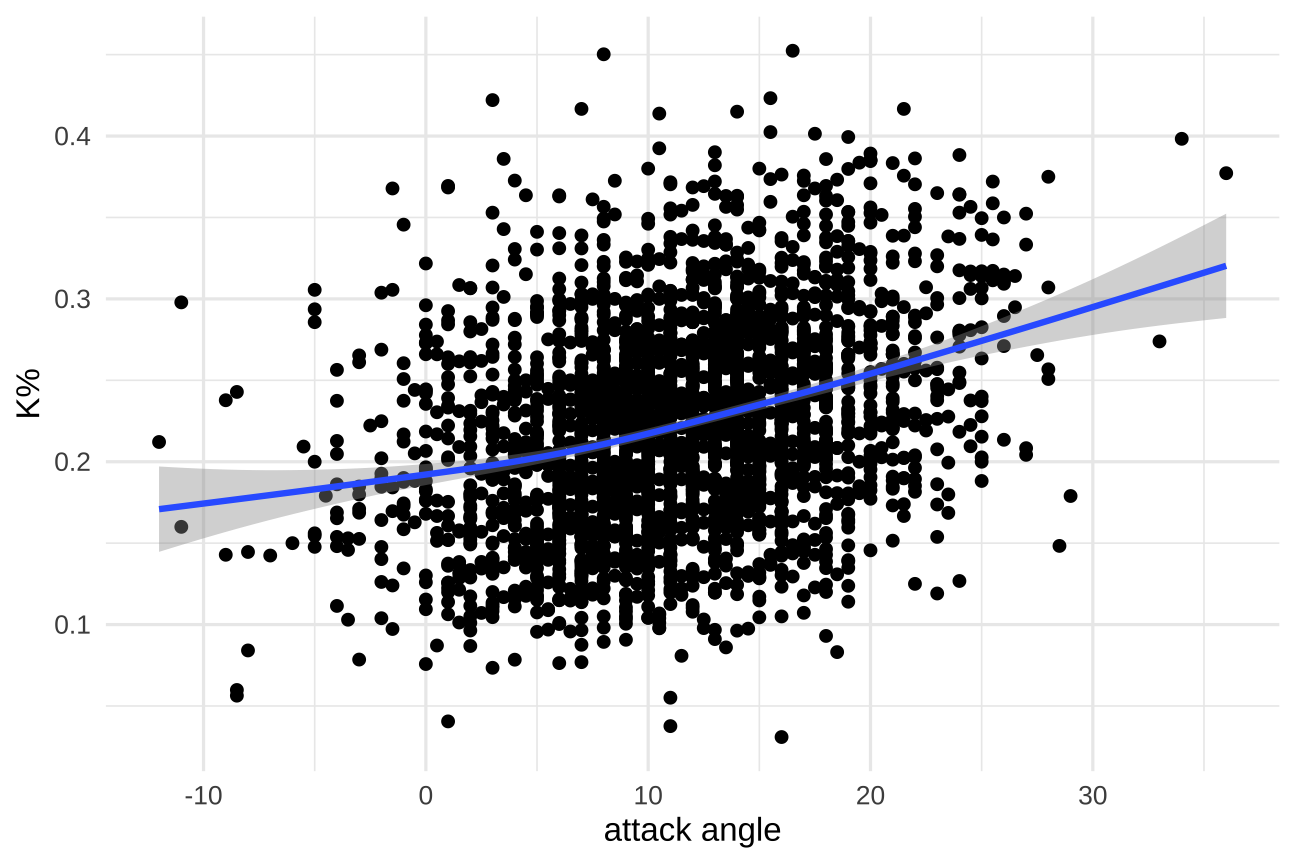
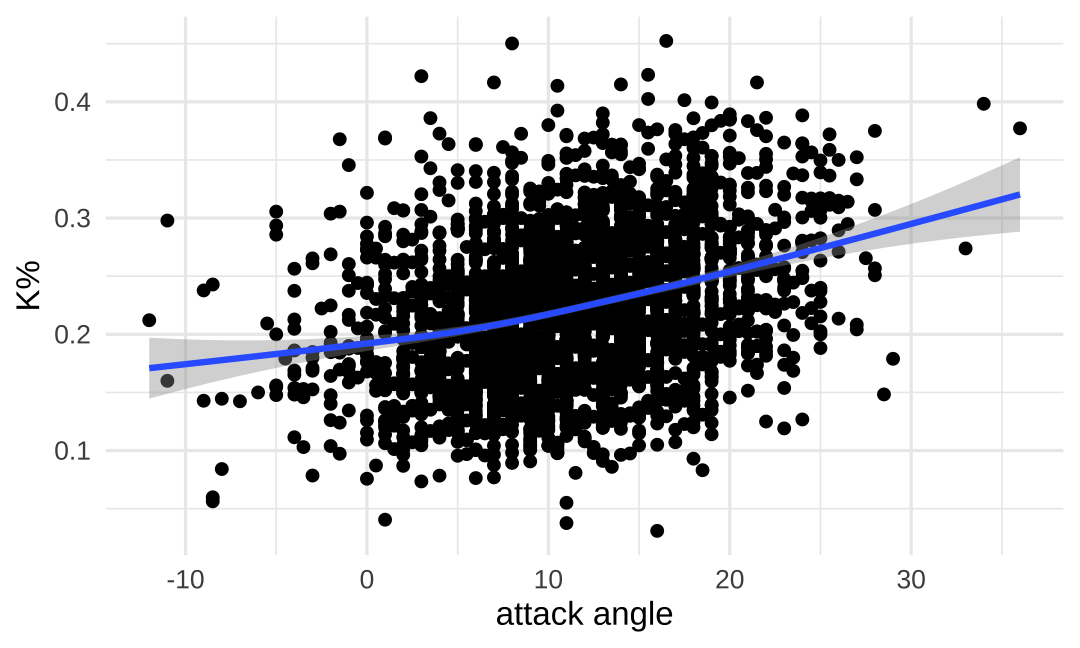
a few small changes to location of one bullet point

diff --git a/Final Presentations/Full_Presentation.html b/Final Presentations/Full_Presentation.html
@@ -4,7 +4,7 @@
     <title>Maximizing wOBA with Launch Angle and Exit Velocity</title>
     <meta charset="utf-8" />
     <meta name="author" content="Sarah Sult, Brooke Coneeny, Erin Franke" />
-    <meta name="date" content="2021-07-28" />
+    <meta name="date" content="2021-07-29" />
     <script src="Full_Presentation_files/header-attrs-2.8/header-attrs.js"></script>
     <link rel="stylesheet" href="xaringan-themer.css" type="text/css" />
   </head>
@@ -14,7 +14,7 @@ class: center, middle, inverse, title-slide
 
 # Maximizing wOBA with Launch Angle and Exit Velocity
 ### Sarah Sult, Brooke Coneeny, Erin Franke
-### 2021-07-28
+### 2021-07-29
 
 ---
 
@@ -206,7 +206,6 @@ smoothing using predictions from **5 five fold cross validation** and graphing t
 
 - The attack angle is calculated by taking the **median of the player's top 10% highest launch speeds**
 
-- We then used this attack angle with pitch height to create a linear model which predicts a player's launch angles
 ]
 
 .pull-right[
@@ -231,13 +230,15 @@ smoothing using predictions from **5 five fold cross validation** and graphing t
   - We can find the wOBA for this dataset and adjust the attack angle as needed to find a maximum wOBA. 
 ---
 
-## Adding in pitch height to find a maximum wOBA over different attack angles
+### Adding in pitch height to find a maximum wOBA over different attack angles
+
+- We then used this attack angle with pitch height to create a linear model which predicts a player's launch angles
 
 - When adjusting a player's attack angle, our linear model gives us a set of new predicted launch angles for each ball hit into play
 
 - Exit velocities were sampled to create a mock data set representing this player's balls hit into play due to their new attack angle
 
--This data was run though the wOBA model (GAM) to generate predictions of the player's potential production
+- This data was run though the wOBA model (GAM) to generate predictions of the player's potential production
 
 .pull-left[
 &lt;img src="Full_Presentation_files/figure-html/unnamed-chunk-21-1.png" width="360" /&gt;
@@ -258,10 +259,10 @@ smoothing using predictions from **5 five fold cross validation** and graphing t
   - This further supports our reasoning to make recommendations for a players based on their **attack angle**, rather than **average launch angle**. 
 
 .pull-left[
-&lt;img src="Full_Presentation_files/figure-html/unnamed-chunk-23-1.png" width="432" /&gt;
+&lt;img src="Full_Presentation_files/figure-html/unnamed-chunk-23-1.png" width="360" /&gt;
 ]
 .pull-right[
-&lt;img src="Full_Presentation_files/figure-html/unnamed-chunk-24-1.png" width="432" /&gt;
+&lt;img src="Full_Presentation_files/figure-html/unnamed-chunk-24-1.png" width="360" /&gt;
 ]
 ---
 
